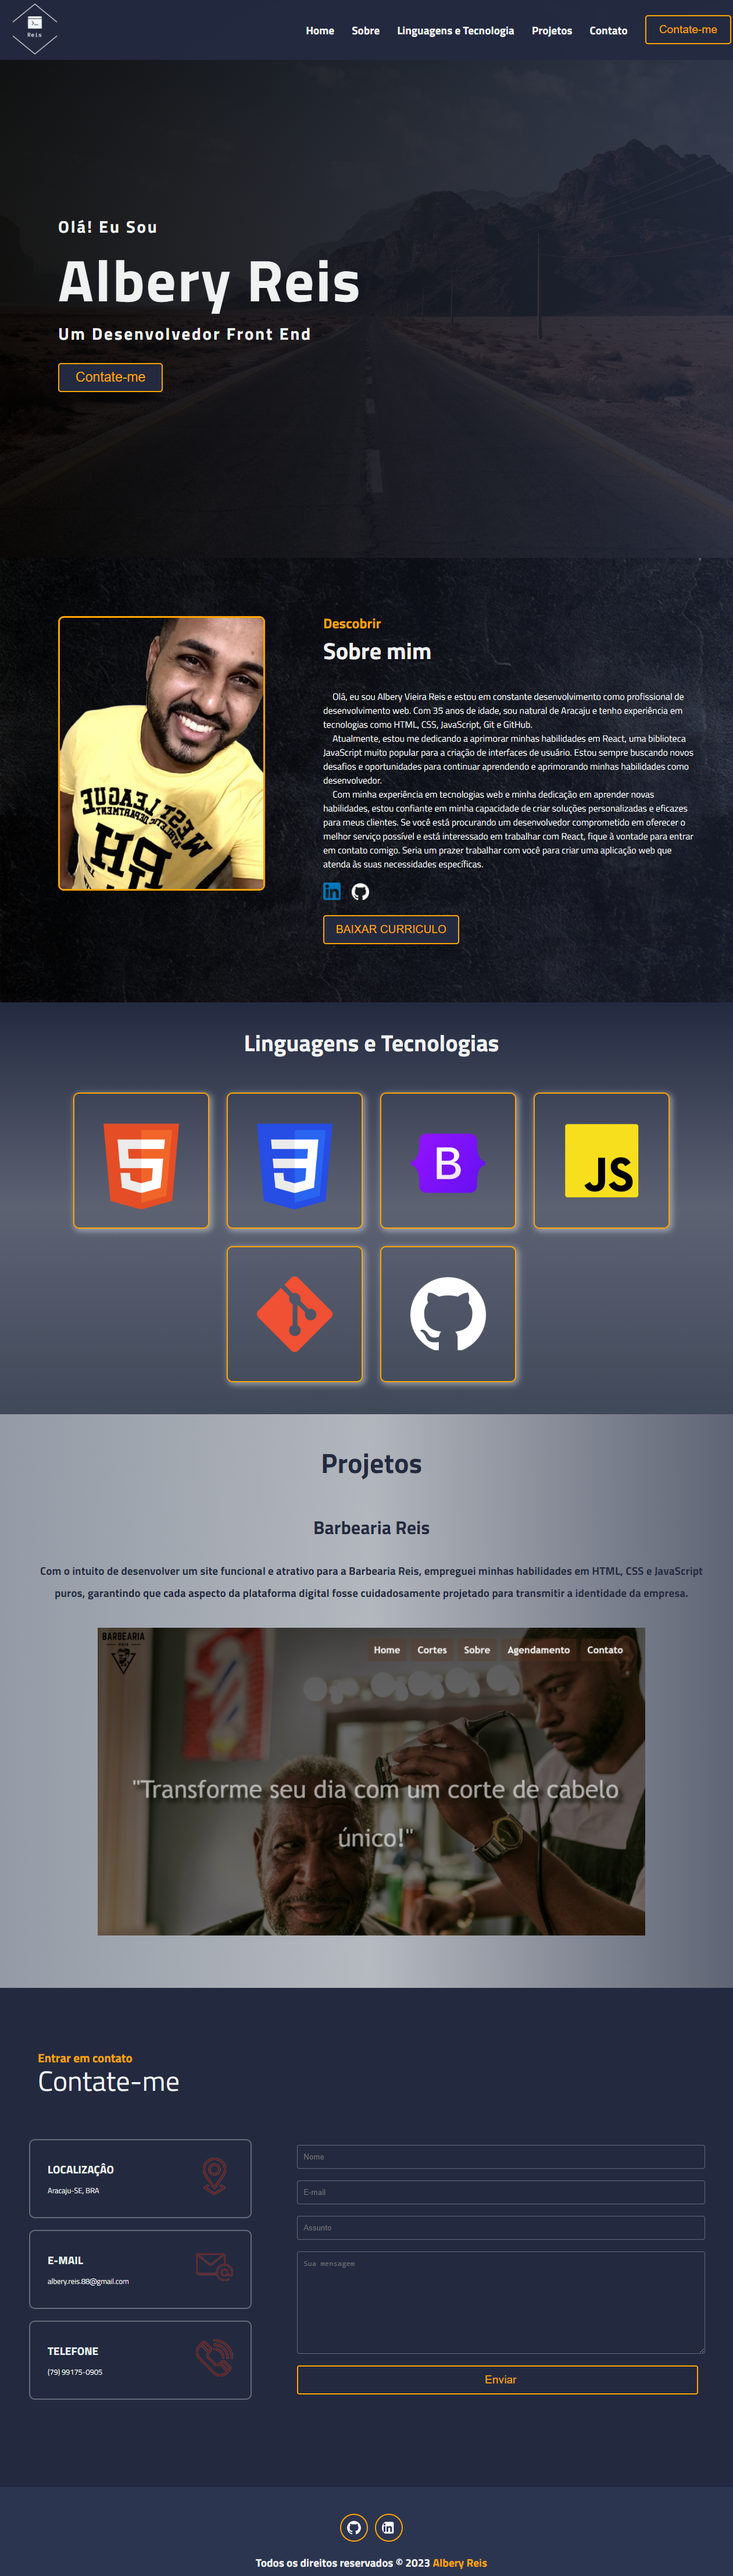
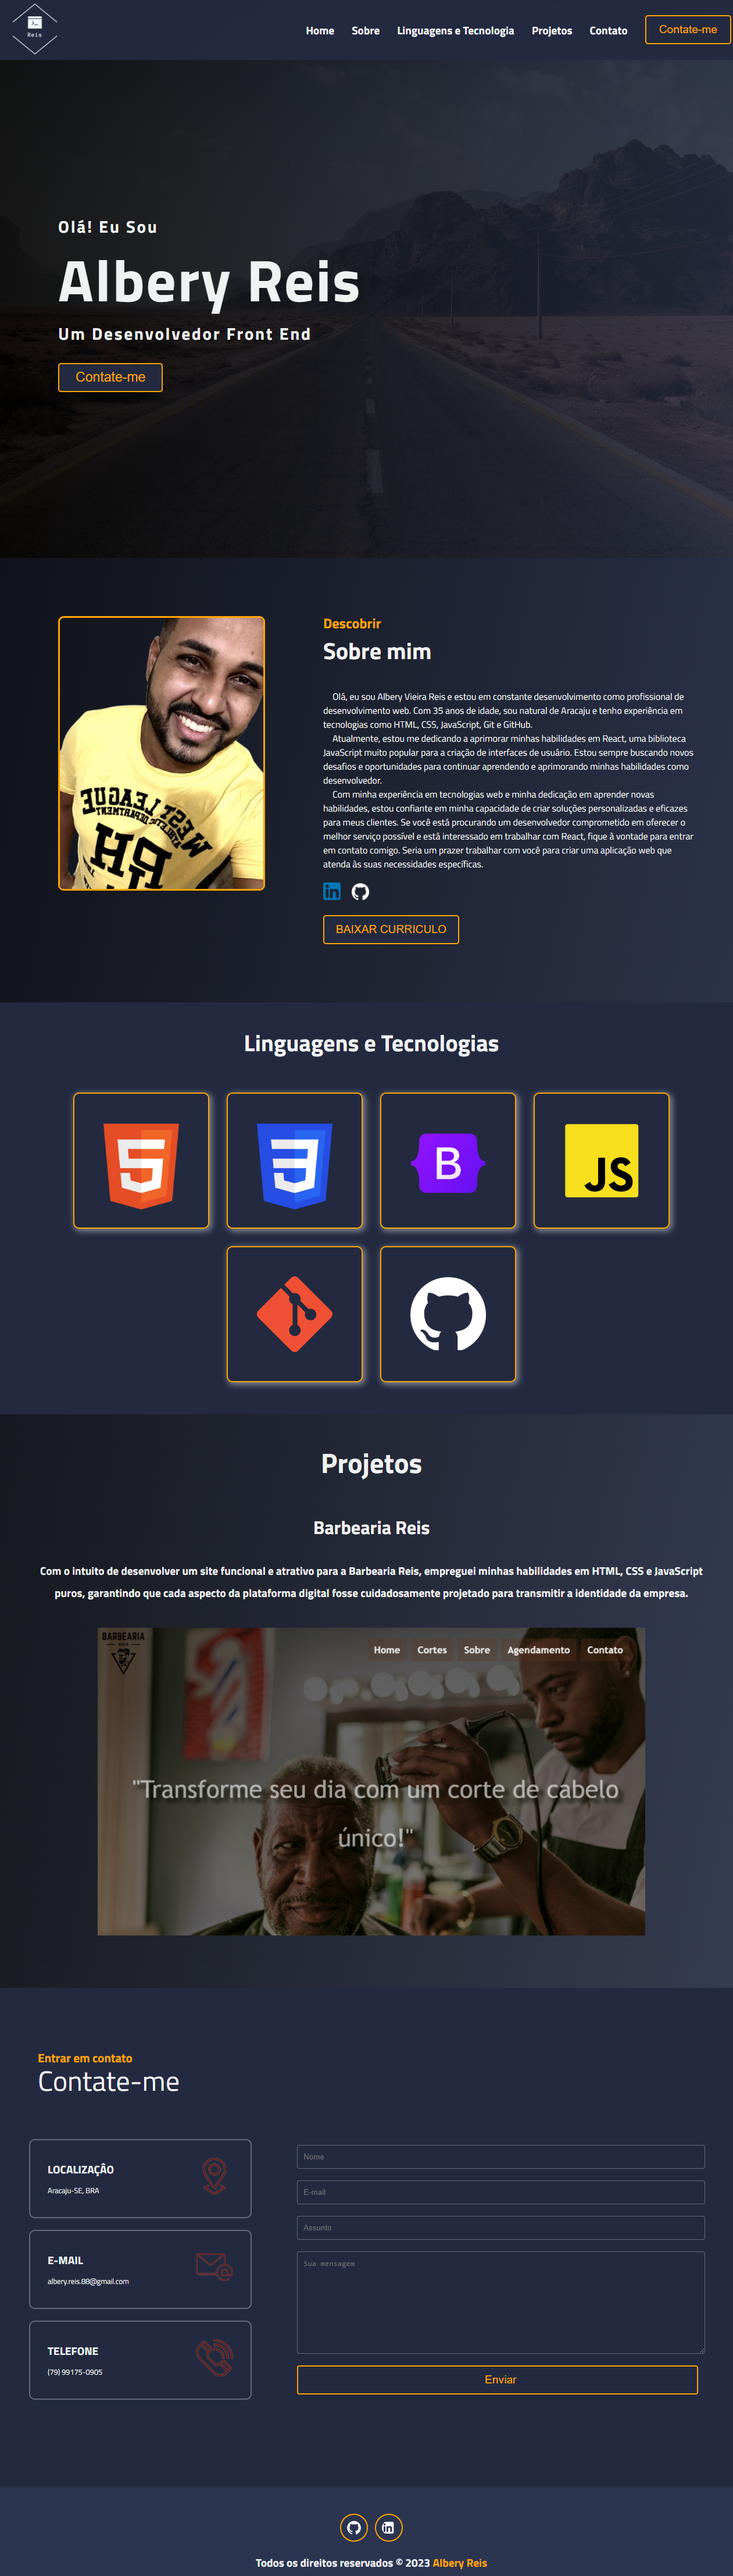
update area de prjetos

Changed region(s): [[0.0, 0.2182, 1.0, 0.7791], [0.8969, 0.2182, 1.0, 0.2493], [0.3093, 0.3428, 0.4021, 0.374]]

diff --git a/index.html b/index.html
@@ -121,7 +121,13 @@
             <div class="projetos">
                 <h2>Barbearia Reis</h2>
                 <p>Com o intuito de desenvolver um site funcional e atrativo para a Barbearia Reis, empreguei minhas habilidades em HTML, CSS e JavaScript puros, garantindo que cada aspecto da plataforma digital fosse cuidadosamente projetado para transmitir a identidade da empresa.</p>
-                <a href="https://alberyreis.github.io/barbearia_reis/"><img src="./assets/img/template_barbearia_reis.png" alt=""></a>
+                <a href="https://alberyreis.github.io/barbearia_reis/">
+                    <picture>
+                        <source media="(max-width: 575.98px)" srcset="./assets/img/template_barbearia_reis_03.png">
+                        <source media="(max-width: 767.98px)" srcset="./assets/img/template_barbearia_reis_02.png">
+                        <img src="./assets/img/template_barbearia_reis_01.png" alt="">
+                    </picture>
+                </a>
             </div>
         </section>
         <section class="contato" id="contato">
